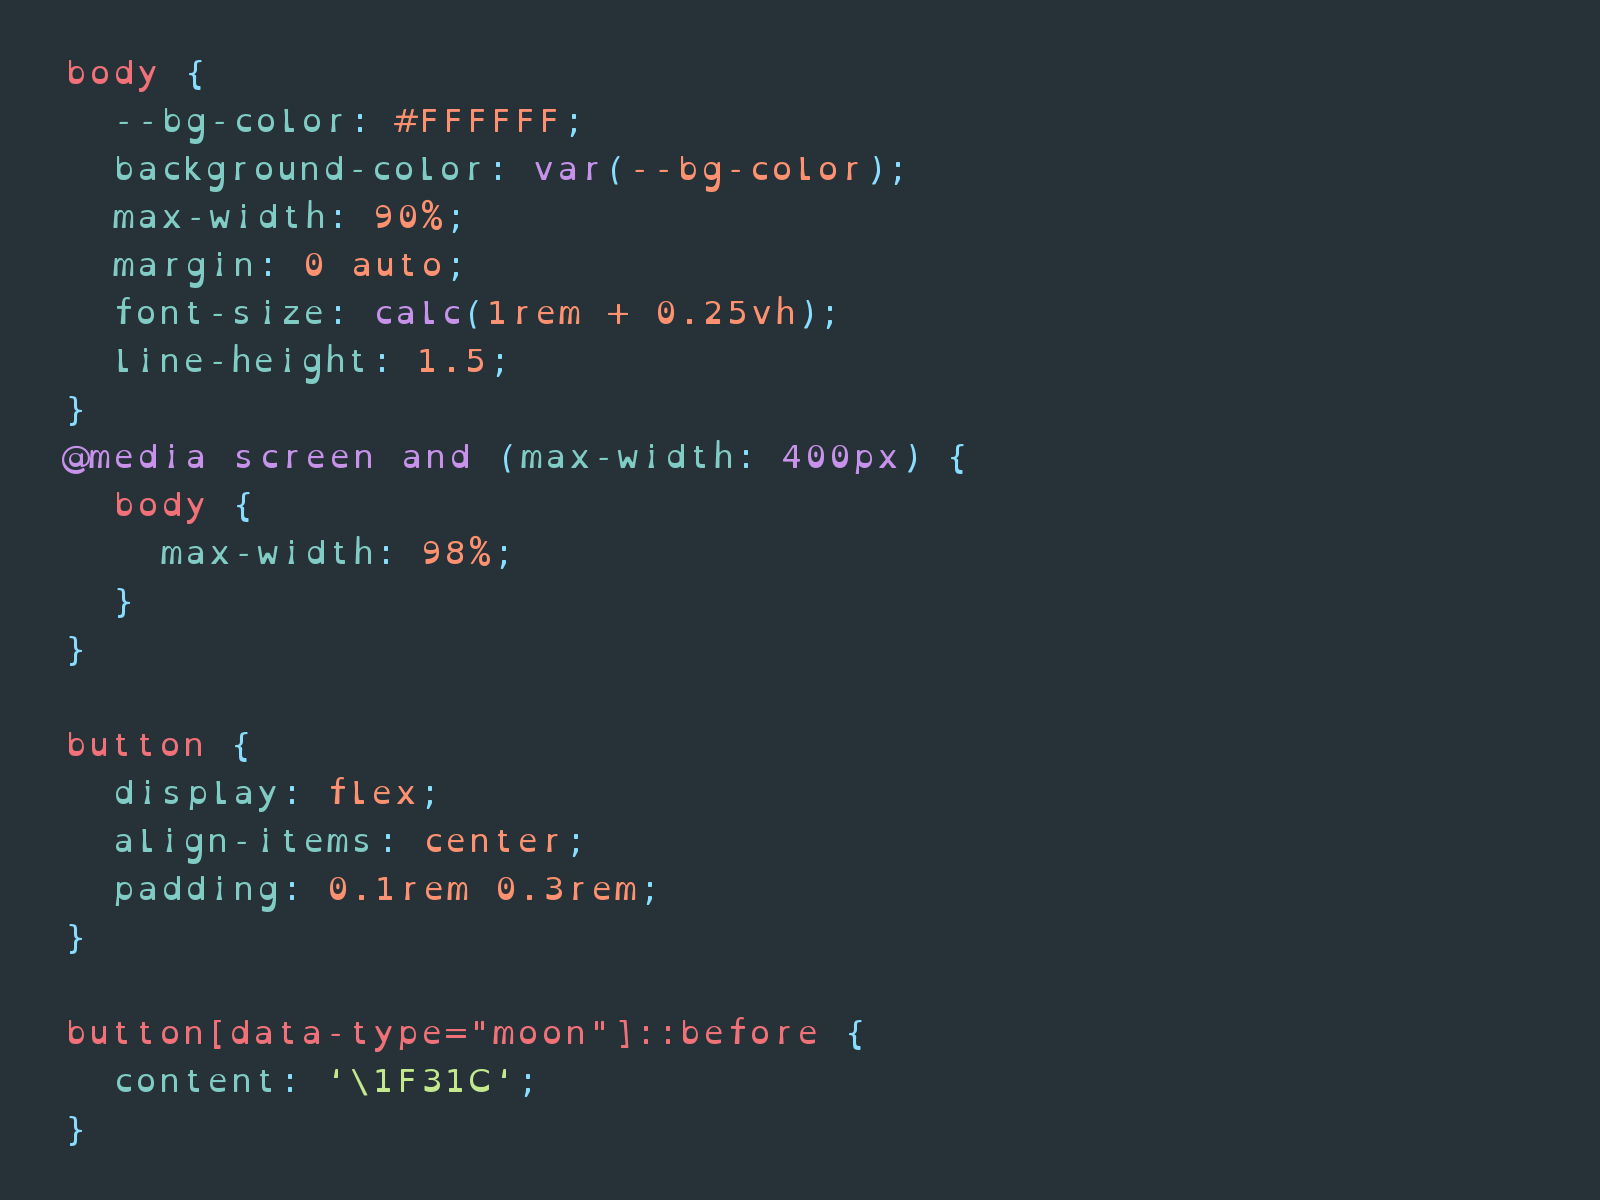
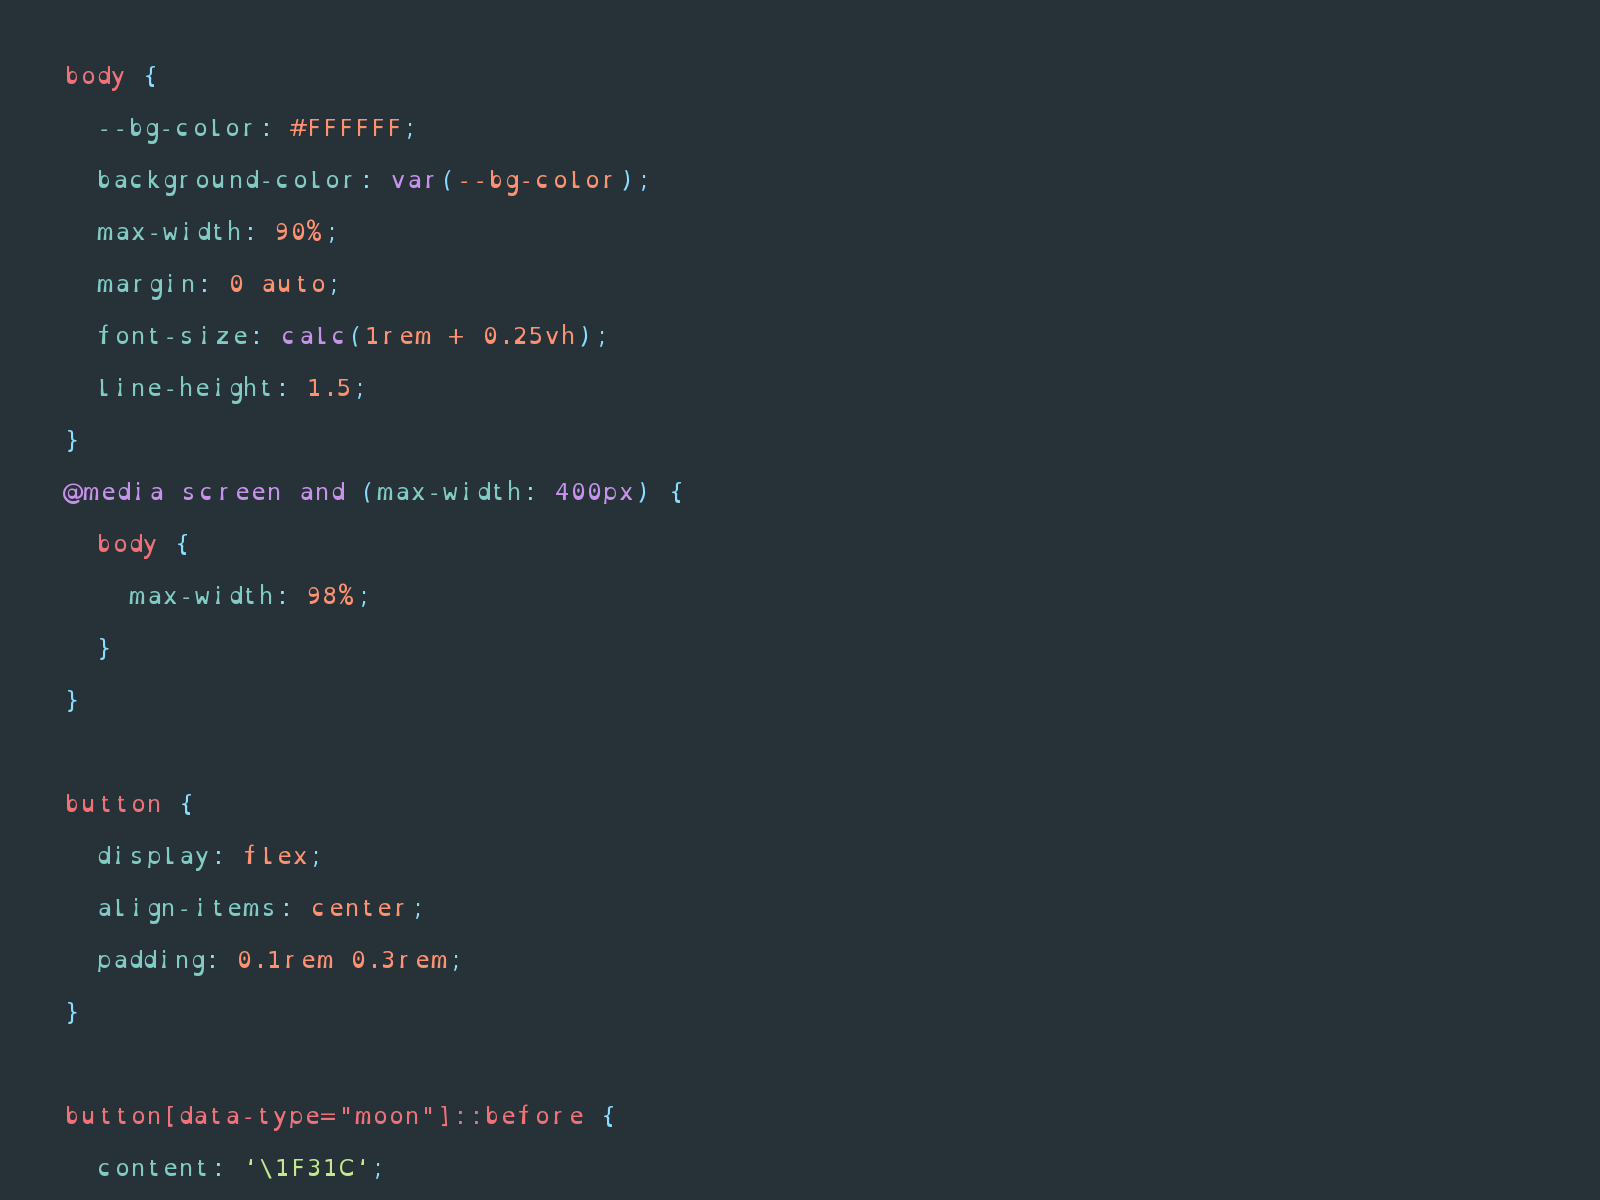
Reduce font-size for screenshots of OpenDyslexic Mono

diff --git a/src/assets/fonts/OpenDyslexicMono/OpenDyslexicMono.css b/src/assets/fonts/OpenDyslexicMono/OpenDyslexicMono.css
@@ -4,3 +4,8 @@
   font-weight: 400;
   font-style: normal;
 }
+
+/* Reduce font-size to make entire code samples visible in screenshots */
+code {
+  font-size: 0.7em;
+}
